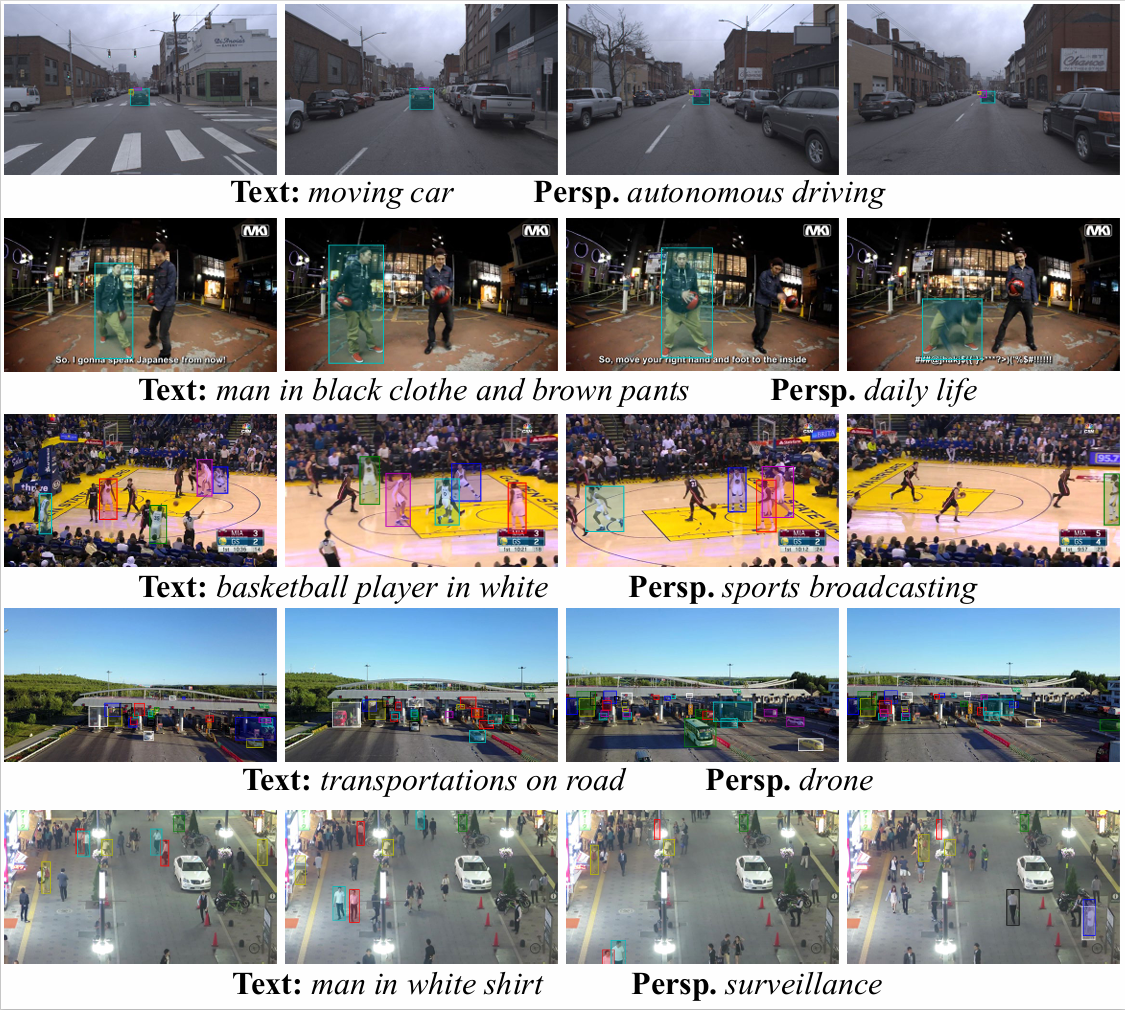
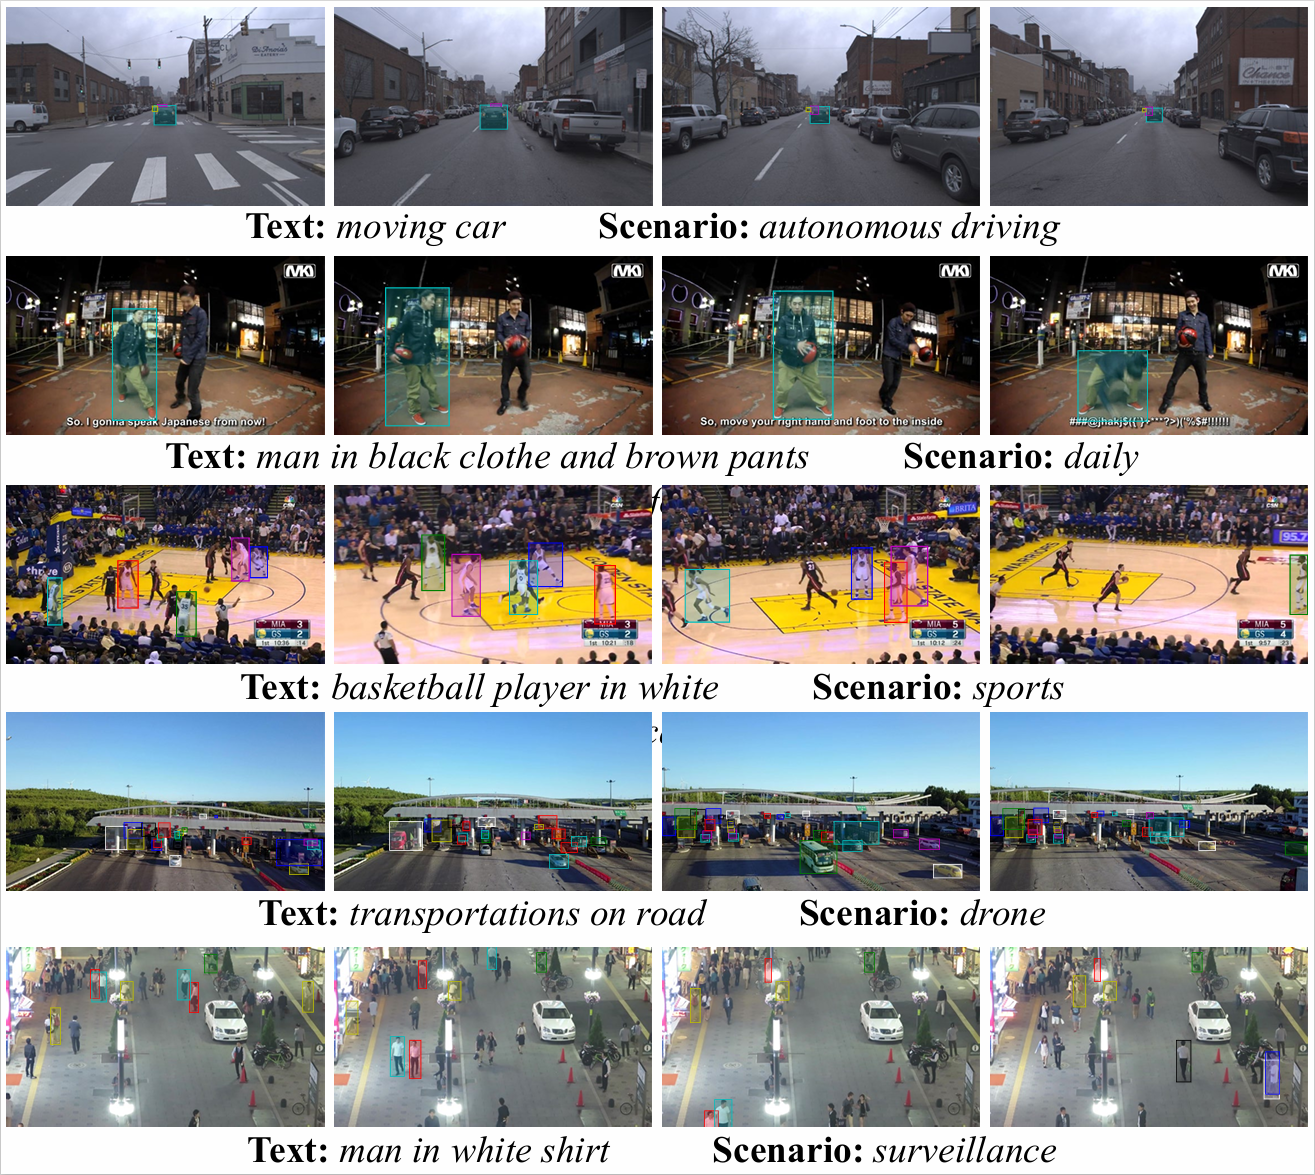
scenario

Changed region(s): [[0.0, 0.0, 1.0, 1.0], [0.6533, 0.0, 0.84, 0.0614], [0.3111, 0.0307, 0.3422, 0.0614]]

diff --git a/README.md b/README.md
@@ -4,7 +4,7 @@ Yunhao Li, Xiaoqiong Liu, Luke Liu, Heng Fan, Libo Zhang <br>
 `paper` `dataset`
 
 ![examples](assets/examples.png) <br>
-**Figure**: We introduce a large-scale benchmark, termed LaMOT, which comprises 1,660 sequences, 1.67M frames, and over 18.9K target trajectories. LaMOT contains videos from 4 MOT datasets, including *MOT17*, *TAO*, *SportsMOT*, and *VisDrone2019*. It encompasses five different video perspectives including *surveillance*, *autonomous driving*, *sports broadcasting*, *drone*, and *daily life*. To our knowledge, LaMOT is the first benchmark dedicated to Language-Guided MOT.
+**Figure**: We introduce a large-scale benchmark, termed LaMOT, which comprises 1,660 sequences, 1.67M frames, and over 18.9K target trajectories. LaMOT contains videos from 4 MOT datasets, including *MOT17*, *TAO*, *SportsMOT*, and *VisDrone2019*. It encompasses five different video scenarios including *surveillance*, *autonomous driving*, *sports broadcasting*, *drone*, and *daily life*. To our knowledge, LaMOT is the first benchmark dedicated to Language-Guided MOT.
 
 ### Organization
 We provide the annotations in the following manner:
